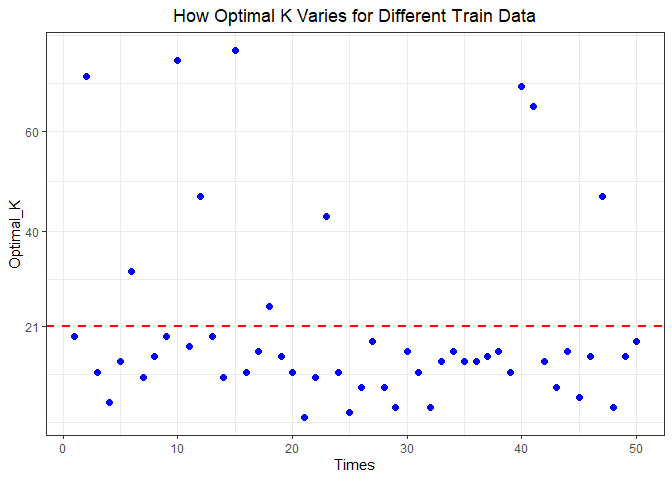
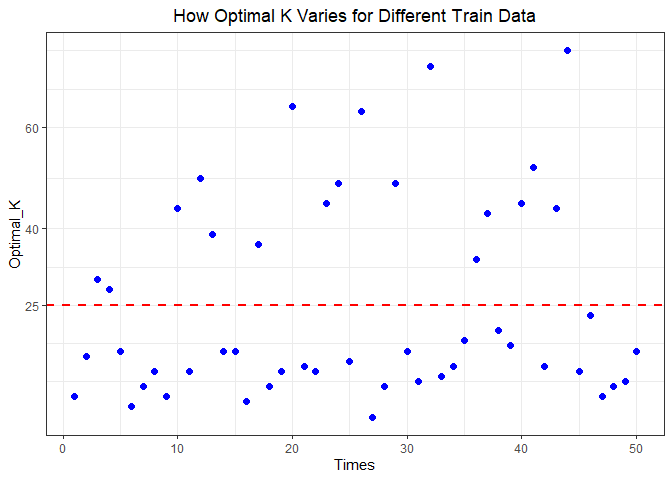
2

diff --git a/Exercise-1.md b/Exercise-1.md
@@ -144,6 +144,7 @@ were cancelled.
 ## 2.1 Look at Price vs Mileage For Each Trim Level
 
 <img src="Exercise-1_files/figure-gfm/unnamed-chunk-14-1.png" style="display: block; margin: auto;" /><img src="Exercise-1_files/figure-gfm/unnamed-chunk-14-2.png" style="display: block; margin: auto;" />
+
 At first, let us have a glimpse of the 350 trim level data and 63AMG
 trim level data. The figure 1 is the scatter plot of price and mileage
 of 350 trim level cars. In general, the data shows a negative
@@ -166,9 +167,9 @@ and then calculate the RMSE (out-of-sample root mean-squared error).
 <img src="Exercise-1_files/figure-gfm/unnamed-chunk-16-1.png" style="display: block; margin: auto;" />
 
     ##    Min. 1st Qu.  Median    Mean 3rd Qu.    Max. 
-    ##    3.00   11.25   15.00   21.02   18.75   76.00
+    ##    3.00   11.25   16.00   25.02   42.00   75.00
 
-    ## [1] 370.6731
+    ## [1] 375.7751
 
 For 350 trim level, we started from K=3 (K=2 results in an error) to
 K=332 (the number of rows in the Train subset). The optimal K is the K
@@ -188,9 +189,9 @@ We did the exact same to 65AMG trim level.
 <img src="Exercise-1_files/figure-gfm/unnamed-chunk-18-1.png" style="display: block; margin: auto;" />
 
     ##    Min. 1st Qu.  Median    Mean 3rd Qu.    Max. 
-    ##    3.00    7.00   13.00   17.38   23.75   52.00
+    ##    3.00    7.00   12.00   16.82   23.00   60.00
 
-    ## [1] 177.7506
+    ## [1] 174.518
 
 Comparing those two summaries of optimal K for 350 trim level and 65AMG
 trim level, the 350 trim level has higher mean, median, and variance
